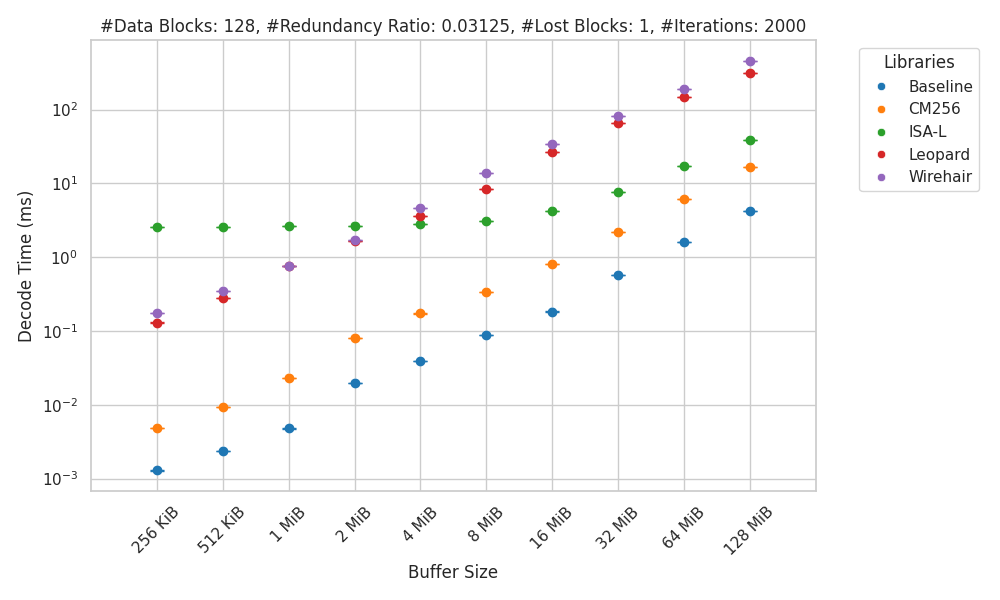
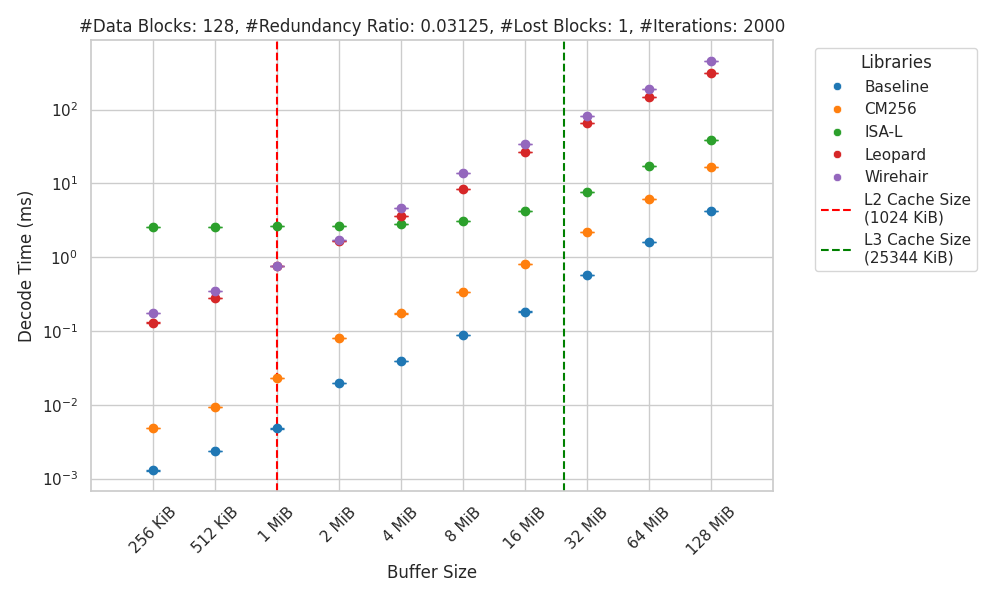
Added lines to show the cache size(s)

diff --git a/scripts/plot_benchmark_results.py b/scripts/plot_benchmark_results.py
@@ -42,8 +42,20 @@ def make_scatter_plot(dfs: Dict[int, pd.DataFrame], x_col: str, y_col: str, x_la
   plt.ylabel(y_label, fontsize=12)
   plt.xscale("log", base=2)
   plt.yscale(y_scale)
+
+  if (x_col == "tot_data_size_KiB"):
+    # Plot the cache sizes
+    l2_cache_size = 1024 # 1024 KiB
+    l3_cache_size = 25344 # 25344 KiB
+    plt.axvline(x=l2_cache_size, color="red", linestyle="--", label="L2 Cache Size\n" + f"({l2_cache_size} KiB)")
+    plt.axvline(x=l3_cache_size, color="green", linestyle="--", label="L3 Cache Size\n" + f"({l3_cache_size} KiB)")
+
   plt.legend(title="Libraries", bbox_to_anchor=(1.05, 1), loc="upper left")
-  plt.title(get_plot_title(df, plot_id), fontsize=12)  
+  plt.title(get_plot_title(df, plot_id), fontsize=12)
+
+  
+  
+
 
   # Set proper x-ticks
   ax = plt.gca()
